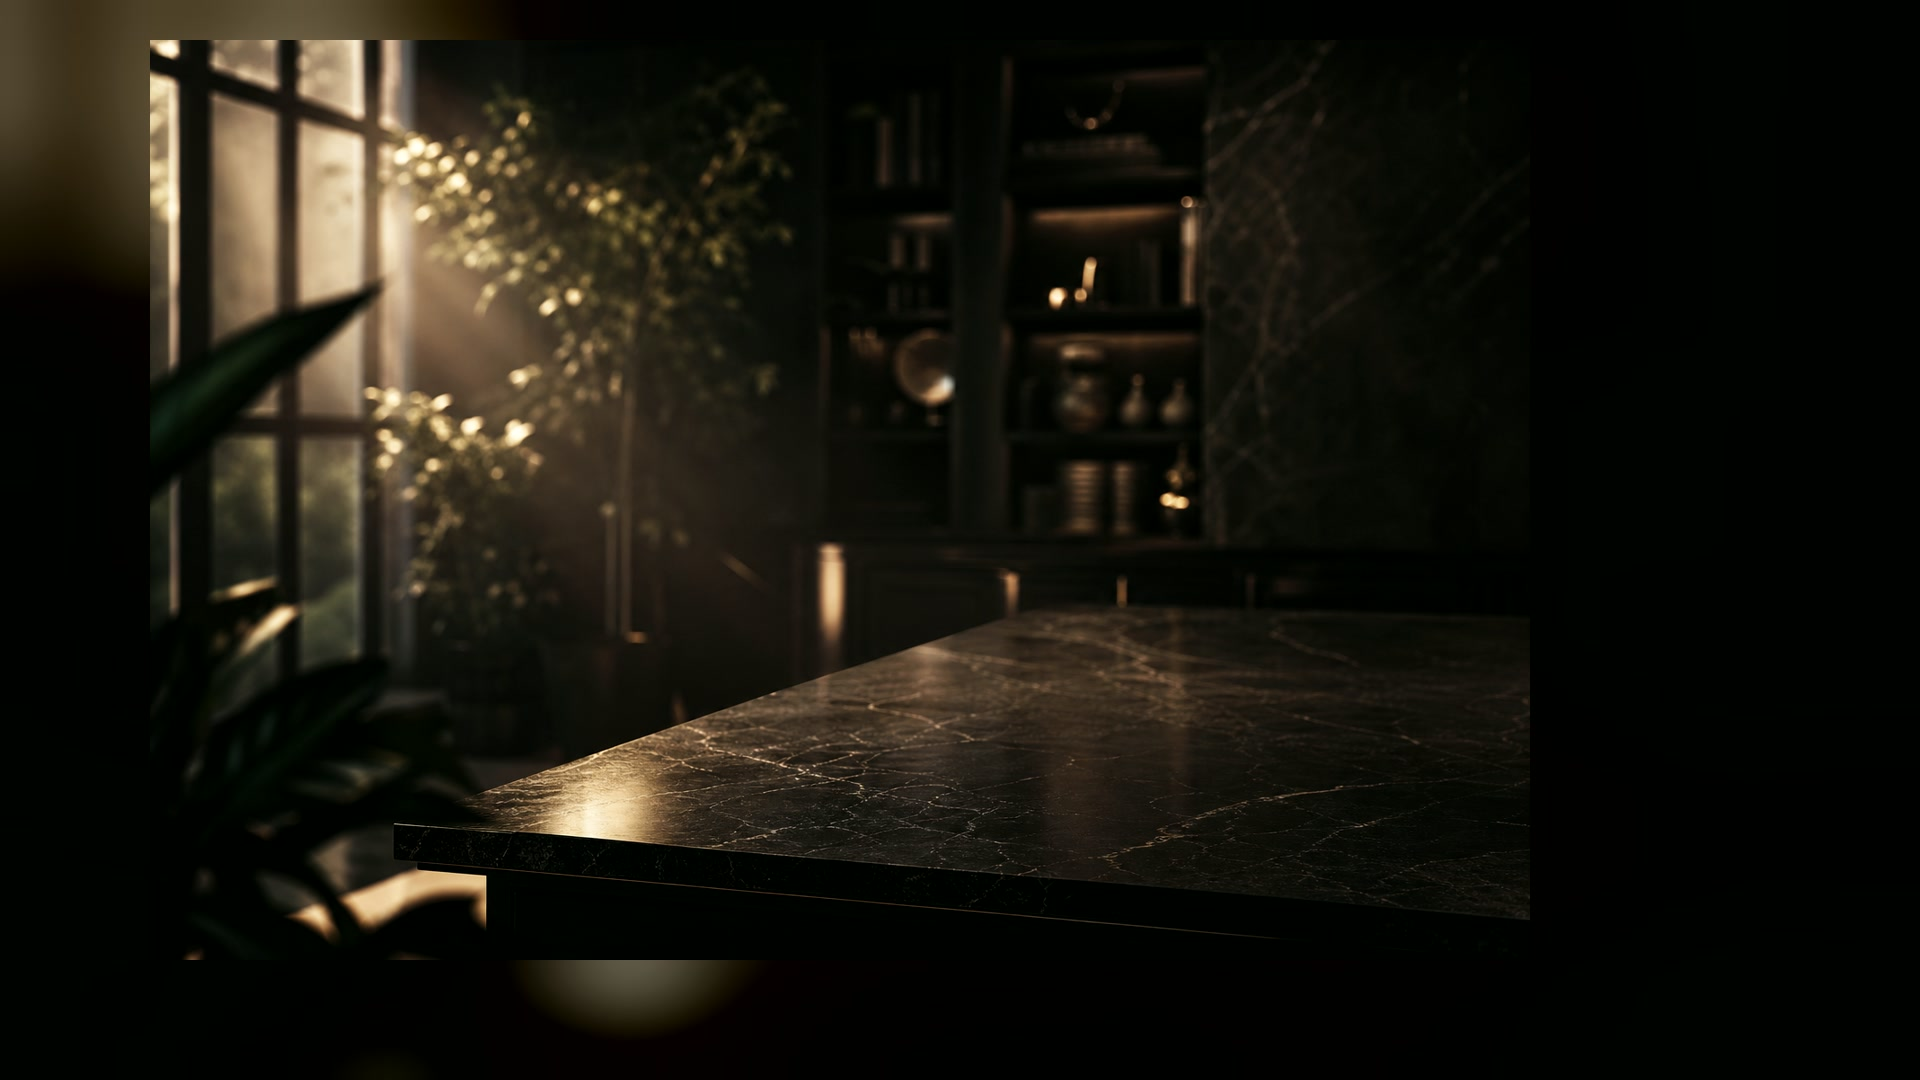
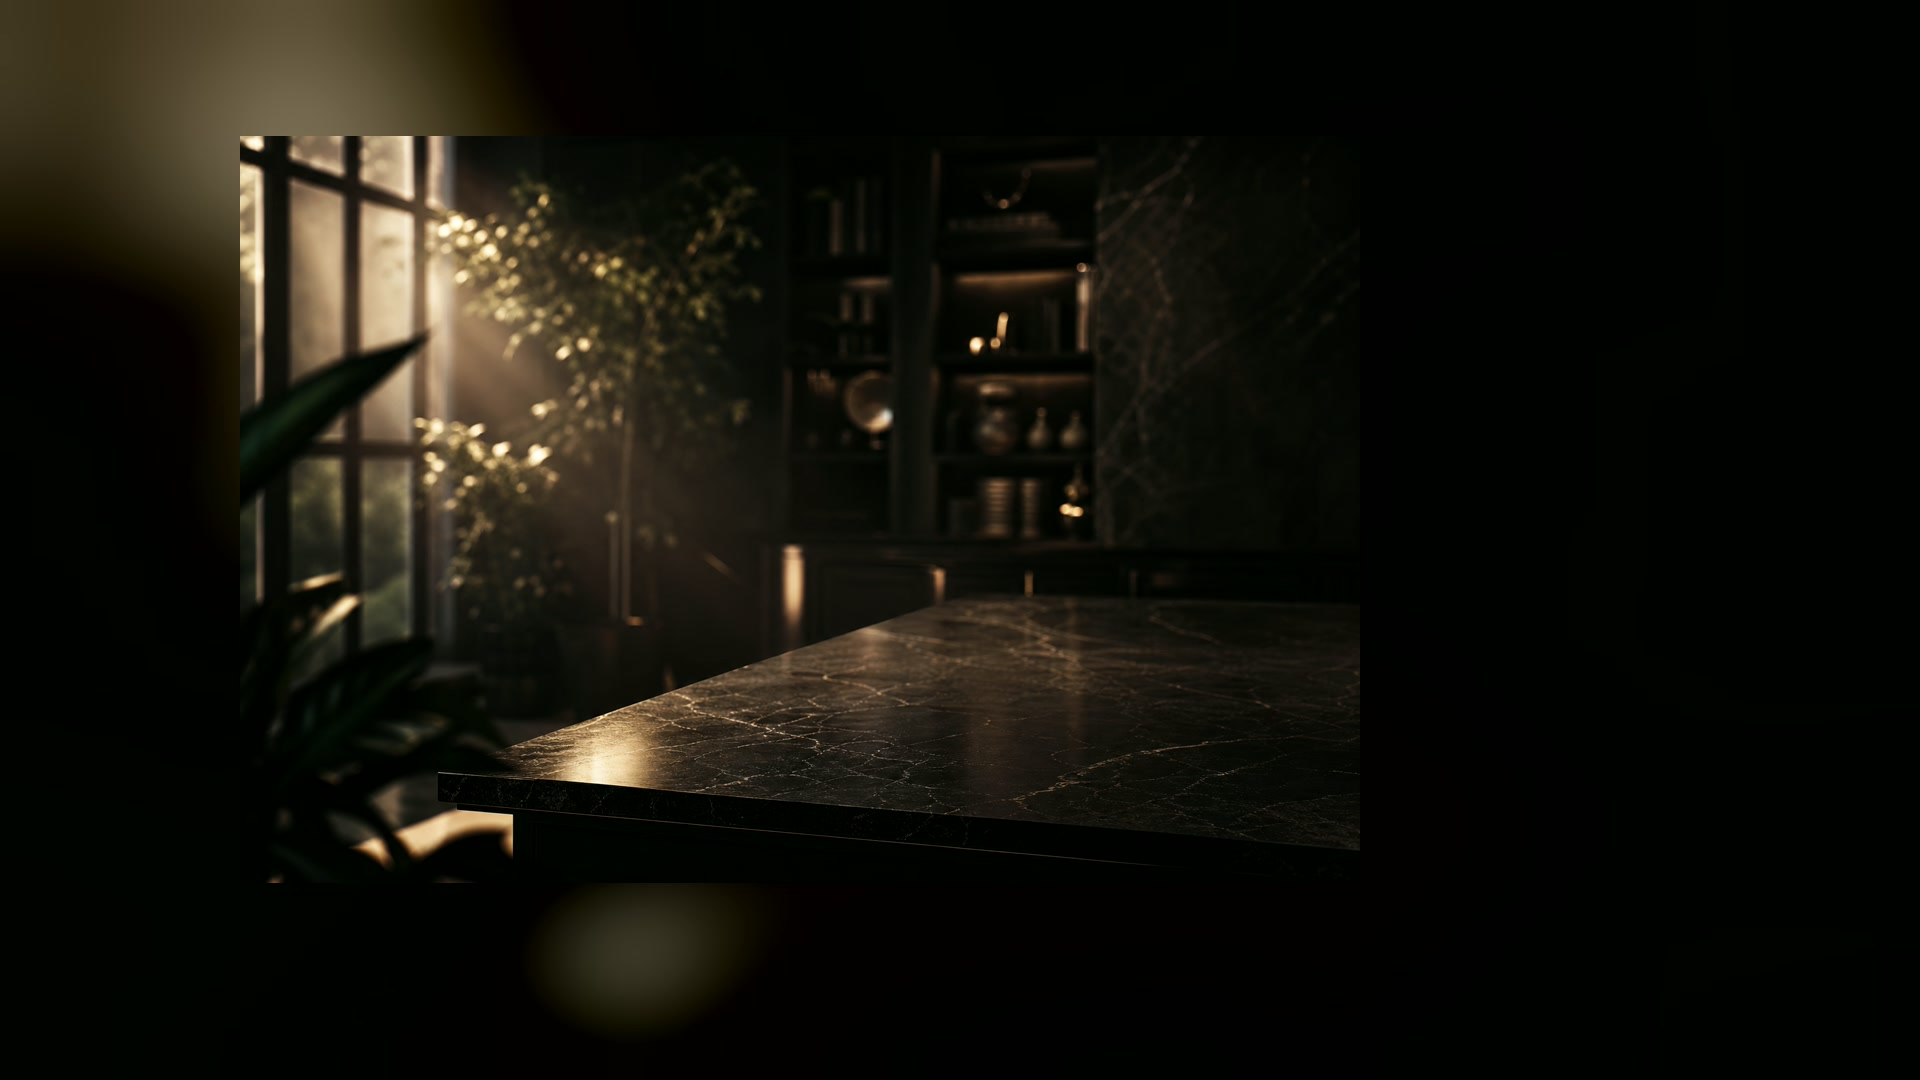
Zoom out hero background plate further for a wider room read.

diff --git a/src/components/three/HeroCanvas.tsx b/src/components/three/HeroCanvas.tsx
@@ -52,7 +52,7 @@ function ParallaxPlate({ children }: { children: React.ReactNode }) {
   );
 }
 
-const HERO_VIDEO_CLASS = "object-cover object-[30%_40%] md:object-[35%_42%]";
+const HERO_VIDEO_CLASS = "object-cover object-[32%_38%] md:object-[38%_40%]";
 
 function HeroPlate() {
   return (
@@ -62,7 +62,7 @@ function HeroPlate() {
           srcBase="/videos/hero-desk-loop"
           poster="/videos/hero-desk-loop-poster.jpg"
           priority
-          revision="6"
+          revision="7"
           alt="Arcform cinematic design studio"
           videoClassName={HERO_VIDEO_CLASS}
         />
@@ -109,7 +109,7 @@ export function HeroCanvas() {
           srcBase="/videos/hero-desk-loop"
           poster="/videos/hero-desk-loop-poster.jpg"
           priority
-          revision="6"
+          revision="7"
           alt="Arcform cinematic design studio"
           videoClassName={HERO_VIDEO_CLASS}
         />
@@ -142,7 +142,7 @@ export function HeroCanvas() {
           srcBase="/videos/hero-desk-loop"
           poster="/videos/hero-desk-loop-poster.jpg"
           priority
-          revision="6"
+          revision="7"
           alt="Arcform cinematic design studio"
           videoClassName={HERO_VIDEO_CLASS}
         />

diff --git a/src/components/ui/CinematicVideo.tsx b/src/components/ui/CinematicVideo.tsx
@@ -27,7 +27,7 @@ export function CinematicVideo({
   priority = false,
   opacity = 1,
   alt = "",
-  revision = "6",
+  revision = "7",
 }: CinematicVideoProps) {
   const ref = useRef<HTMLVideoElement>(null);
   const [reduced, setReduced] = useState(false);